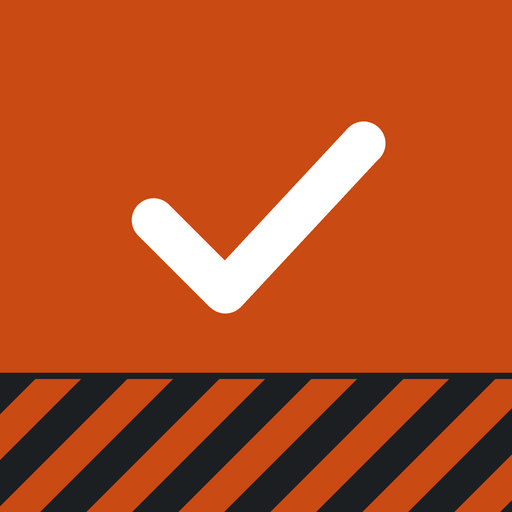
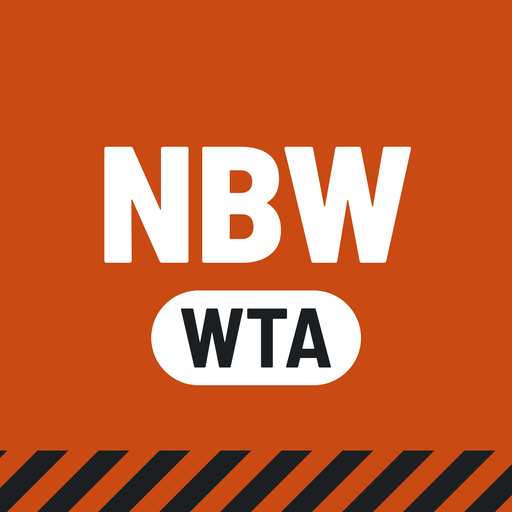
Add files via upload

diff --git a/index.html b/index.html
@@ -3,11 +3,11 @@
 <head>
 <meta charset="utf-8">
 <meta name="viewport" content="width=device-width,initial-scale=1,viewport-fit=cover">
-<title>NBW Werftaken</title>
+<title>NBW WerfTakenApp</title>
 <meta name="theme-color" content="#c94a12">
 <meta name="apple-mobile-web-app-capable" content="yes">
 <meta name="mobile-web-app-capable" content="yes">
-<meta name="apple-mobile-web-app-title" content="Werftaken">
+<meta name="apple-mobile-web-app-title" content="WerfTakenApp">
 <meta name="apple-mobile-web-app-status-bar-style" content="default">
 <link rel="manifest" href="manifest.webmanifest">
 <link rel="icon" href="icon-192.png" type="image/png">
@@ -48,6 +48,8 @@ body{background:var(--bg);color:var(--fg);font-family:var(--f-body);font-size:16
 .stripe{height:6px;margin:0 calc(-1 * max(16px,env(safe-area-inset-left,0px))) 0;
   background:repeating-linear-gradient(-45deg,var(--accent) 0 10px,var(--fg) 10px 20px);opacity:.9}
 header{display:flex;align-items:baseline;justify-content:space-between;gap:12px;flex-wrap:wrap;padding-top:14px}
+.brand{display:flex;align-items:center;gap:10px;min-width:0}
+.brand img{width:40px;height:40px;border-radius:9px;flex:none}
 h1{font-family:var(--f-display);font-weight:700;font-size:1.65rem;letter-spacing:.01em;margin:0;text-wrap:balance}
 .proj{font-size:.85rem;color:var(--muted)}
 .proj b{color:var(--fg);font-weight:600}
@@ -118,6 +120,7 @@ textarea:focus,input:focus,select:focus{outline:2px solid var(--accent);outline-
 .recent li:first-child{border-top:0}
 .recent .pbar{width:4px;align-self:stretch;border-radius:2px;background:var(--pc);flex:none}
 .recent .t{flex:1;min-width:0;word-break:break-word}
+.recent .t small{display:block;color:var(--muted);font-size:.78rem;margin-top:2px}
 .recent .d{font-size:.8rem;color:var(--muted);white-space:nowrap;font-variant-numeric:tabular-nums}
 .empty-note{color:var(--muted);font-size:.9rem;margin:0}
 
@@ -147,7 +150,7 @@ details[open] summary{margin-bottom:10px}
 <div class="stripe" aria-hidden="true"></div>
 <div class="wrap">
   <header>
-    <h1>NBW Werftaken</h1>
+    <h1 class="brand"><img src="icon-192.png" alt="" width="40" height="40">NBW WerfTakenApp</h1>
     <button id="gear" class="iconbtn" type="button" aria-expanded="false" aria-controls="settings"><svg viewBox="0 0 24 24" fill="none" stroke="currentColor" stroke-width="2" aria-hidden="true"><circle cx="12" cy="8" r="4"/><path d="M4 21c0-4 4-6 8-6s8 2 8 6"/></svg><span id="who">Niet ingesteld</span></button>
   </header>
 
@@ -224,9 +227,13 @@ details[open] summary{margin-bottom:10px}
   </section>
 
   <section class="card" aria-labelledby="l-recent">
-    <span class="lbl" id="l-recent">Laatst toegevoegd op dit toestel</span>
+    <div class="row" style="justify-content:space-between;gap:8px">
+      <span class="lbl" id="l-recent">Laatst toegevoegd (alle toestellen)</span>
+      <button id="recent-reload" class="linkbtn" type="button">Vernieuwen</button>
+    </div>
+    <span id="recent-state" class="hint" style="margin-top:-6px"></span>
     <ul id="recent" class="recent"></ul>
-    <p id="recent-empty" class="empty-note">Nog geen taken toegevoegd. Wat je hier toevoegt, verschijnt in deze lijst.</p>
+    <p id="recent-empty" class="empty-note">Nog geen open taken gevonden in NORRÉ - PROJECTEN.</p>
   </section>
 
   <section class="card">
@@ -466,7 +473,7 @@ async function loadLabels(){
 async function checkAccount(){
   try{
     const u=await api("user");
-    const naam=(u&&(u.full_name||u.email))||""; lsSet(WKEY,naam); showWho(naam);
+    const naam=(u&&(u.full_name||u.email))||""; lsSet(WKEY,naam); if(u&&u.id) lsSet(UKEY,String(u.id)); showWho(naam);
     await api("projects/"+PROJECT_ID);
     return true;
   }catch(e){ setConn("err",errText(e,e.kind==="noaccess"?"het project":"het aanmelden")); if(e.kind==="auth"||e.kind==="notoken") openSettings(true); return false; }
@@ -636,7 +643,8 @@ $("add").addEventListener("click",async()=>{
     }
     const t=await api("tasks",{method:"POST",body})||{};
     setStatus("ok","Toegevoegd: "+(t.content||titel));
-    pushRecent({titel:t.content||titel,p:prio(),datum:fmtDatum($("datum").value,$("uur").value)});
+    pushRecent({titel:t.content||titel,p:prio(),datum:fmtDatum($("datum").value,$("uur").value),door:(lsGet(WKEY)||"").split(" ")[0],toegevoegd:fmtStamp(new Date().toISOString())});
+    setTimeout(loadRecent,1500);
     $("dictaat").value=""; ["taak","uitvoerder","aanvrager","datum","uur"].forEach(id=>$(id).value=""); syncChips();
     $("p1").checked=true; selLabel=""; selNew=false; wIn.value=""; wClear.hidden=true; lastParse=null; setMatch(null);
   }catch(e){ setStatus(e.kind==="network"||e.kind==="server"?"warn":"err", errText(e,"de taak")); }
@@ -674,31 +682,75 @@ $("save").addEventListener("click",async()=>{
     lsSet(TKEY,tok); const naam=(u&&(u.full_name||u.email))||""; lsSet(WKEY,naam); showWho(naam);
     try{ await api("projects/"+PROJECT_ID); m.className="msg ok"; m.textContent="In orde. Aangemeld als "+(naam||"onbekend")+"."; setConn(null); setTimeout(()=>openSettings(false),1200); }
     catch(e){ m.className="msg warn"; m.textContent="Token werkt, maar: "+errText(e,"het project"); }
-    loadLabels(); updatePreview();
+    if(u&&u.id) lsSet(UKEY,String(u.id));
+    loadLabels(); loadRecent(); updatePreview();
   }catch(e){ m.className="msg err"; m.textContent=e.kind==="auth"?"Dit token wordt niet aanvaard door Todoist. Kopieer het opnieuw.":errText(e,"het testen van het token"); }
 });
-$("logout").addEventListener("click",()=>{ lsSet(TKEY,null); lsSet(WKEY,null); lsSet(LKEY,null); LABELS=[]; $("token").value=""; showWho(""); setMatch(null); updatePreview();
+$("logout").addEventListener("click",()=>{ lsSet(TKEY,null); lsSet(WKEY,null); lsSet(LKEY,null); lsSet(RKEY,null); lsSet(UKEY,null); COLLAB=null; renderRecent([]); LABELS=[]; $("token").value=""; showWho(""); setMatch(null); updatePreview();
   const m=$("setmsg"); m.hidden=false; m.className="msg info"; m.textContent="Token gewist op dit toestel."; });
 
-// Recente taken: enkel op dit toestel
-const RKEY="nbw-werftaken-recent";
-function getRecent(){ try{ return JSON.parse(localStorage.getItem(RKEY)||"[]"); }catch(e){ return []; } }
-function pushRecent(item){ const l=[item,...getRecent()].slice(0,8); try{ localStorage.setItem(RKEY,JSON.stringify(l)); }catch(e){} renderRecent(l); }
+// Recente taken: open taken uit NORRÉ - PROJECTEN, van alle toestellen en collega's
+const RKEY="nbw-werftaken-recent2", UKEY="nbw-werftaken-uid";
+let COLLAB=null, recentBusy=false, recentAt=0;
+function getRecent(){ try{ return JSON.parse(lsGet(RKEY)||"[]"); }catch(e){ return []; } }
+function pushRecent(item){ const l=[item,...getRecent()].slice(0,10); lsSet(RKEY,JSON.stringify(l)); renderRecent(l); }
+function pad2(n){ return String(n).padStart(2,"0"); }
+function fmtDue(due){
+  if(!due) return "geen datum";
+  const s=due.datetime||due.date||""; if(!s) return "geen datum";
+  if(s.length<=10){ const [y,m,d]=s.split("-"); return +d+"/"+(+m)+"/"+y; }
+  const dt=/Z$|[+-]\d\d:?\d\d$/.test(s)? new Date(s) : new Date(s.replace(" ","T"));
+  if(isNaN(dt)) return s;
+  return dt.getDate()+"/"+(dt.getMonth()+1)+"/"+dt.getFullYear()+" "+pad2(dt.getHours())+":"+pad2(dt.getMinutes());
+}
+function fmtStamp(s){
+  const dt=new Date(s); if(isNaN(dt)) return "";
+  const nu=new Date(); const zelfdeDag=dt.toDateString()===nu.toDateString();
+  return (zelfdeDag?"vandaag":dt.getDate()+"/"+(dt.getMonth()+1))+" "+pad2(dt.getHours())+":"+pad2(dt.getMinutes());
+}
 function renderRecent(l){
   l=l||getRecent(); const ul=$("recent"); ul.innerHTML="";
   $("recent-empty").hidden=l.length>0;
   l.forEach(it=>{ const li=document.createElement("li");
     const b=document.createElement("span"); b.className="pbar"; b.style.setProperty("--pc","var(--p"+it.p+")");
     const t=document.createElement("span"); t.className="t"; t.textContent=it.titel;
+    const sub=[it.door?"door "+it.door:"", it.toegevoegd?"toegevoegd "+it.toegevoegd:""].filter(Boolean).join(" · ");
+    if(sub){ const sm=document.createElement("small"); sm.textContent=sub; t.appendChild(sm); }
     const d=document.createElement("span"); d.className="d"; d.textContent=it.datum;
     li.append(b,t,d); ul.appendChild(li); });
 }
+async function loadRecent(){
+  if(!getToken()||recentBusy) return;
+  recentBusy=true; $("recent-state").textContent="Bezig met vernieuwen…";
+  try{
+    const tasks=[]; let cursor=null;
+    for(let i=0;i<10;i++){
+      const r=await api("tasks",{query:{project_id:PROJECT_ID,limit:200,cursor}})||{};
+      (r.results||[]).forEach(t=>tasks.push(t));
+      if(r.next_cursor) cursor=r.next_cursor; else break;
+    }
+    if(!COLLAB){
+      COLLAB={};
+      try{ const c=await fetchAll("projects/"+PROJECT_ID+"/collaborators",x=>x); c.forEach(x=>{ if(x&&x.id) COLLAB[x.id]=(x.name||x.email||"").split(" ")[0]; }); }catch(e){}
+      const uid=lsGet(UKEY), naam=lsGet(WKEY); if(uid&&naam&&!COLLAB[uid]) COLLAB[uid]=naam.split(" ")[0];
+    }
+    const list=tasks.filter(t=>t&&t.added_at&&!t.parent_id)
+      .sort((a,b)=>Date.parse(b.added_at)-Date.parse(a.added_at)).slice(0,10)
+      .map(t=>({titel:t.content,p:Math.min(4,Math.max(1,5-(t.priority||1))),datum:fmtDue(t.due),door:COLLAB[t.added_by_uid]||"",toegevoegd:fmtStamp(t.added_at)}));
+    lsSet(RKEY,JSON.stringify(list)); renderRecent(list); recentAt=Date.now();
+    const nu=new Date(); $("recent-state").textContent="Open taken, bijgewerkt om "+pad2(nu.getHours())+":"+pad2(nu.getMinutes());
+  }catch(e){
+    renderRecent(); $("recent-state").textContent="Niet bijgewerkt. "+errText(e,"het ophalen van de taken");
+  }finally{ recentBusy=false; }
+}
+$("recent-reload").addEventListener("click",loadRecent);
+document.addEventListener("visibilitychange",()=>{ if(document.visibilityState==="visible" && Date.now()-recentAt>60000) loadRecent(); });
 renderRecent();
 showWho(lsGet(WKEY)||"");
 (function(){ try{ const c=JSON.parse(lsGet(LKEY)||"null"); if(c&&c.names) useLabels(c.names); }catch(e){} })();
 updatePreview();
 if(!getToken()){ setConn("info","Welkom. Vul eenmalig je Todoist-token in om te starten."); openSettings(true); }
-else { setConn(null); checkAccount().then(ok=>{ if(ok) loadLabels(); }); }
+else { setConn(null); checkAccount().then(ok=>{ if(ok){ loadLabels(); loadRecent(); } }); }
 if("serviceWorker" in navigator){ window.addEventListener("load",()=>navigator.serviceWorker.register("sw.js").catch(()=>{})); }
 </script>
 </body>

diff --git a/sw.js b/sw.js
@@ -1,5 +1,5 @@
-// NBW Werftaken - service worker: app-bestanden offline beschikbaar, Todoist altijd live.
-const CACHE = "werftaken-v2";
+// NBW WerfTakenApp - service worker: app-bestanden offline beschikbaar, Todoist altijd live.
+const CACHE = "werftaken-v3";
 const SHELL = ["./", "index.html", "manifest.webmanifest", "icon-192.png", "icon-512.png", "apple-touch-icon.png"];
 
 self.addEventListener("install", e => {
@@ -13,7 +13,7 @@ self.addEventListener("fetch", e => {
   if (e.request.method !== "GET" || url.origin !== self.location.origin) return; // Todoist en fonts: niet cachen
   // eerst netwerk (zo komen updates meteen binnen), anders de bewaarde versie
   e.respondWith(
-    fetch(e.request).then(r => {
+    fetch(e.request, {cache: "no-cache"}).then(r => {
       const copy = r.clone();
       caches.open(CACHE).then(c => c.put(e.request, copy));
       return r;
